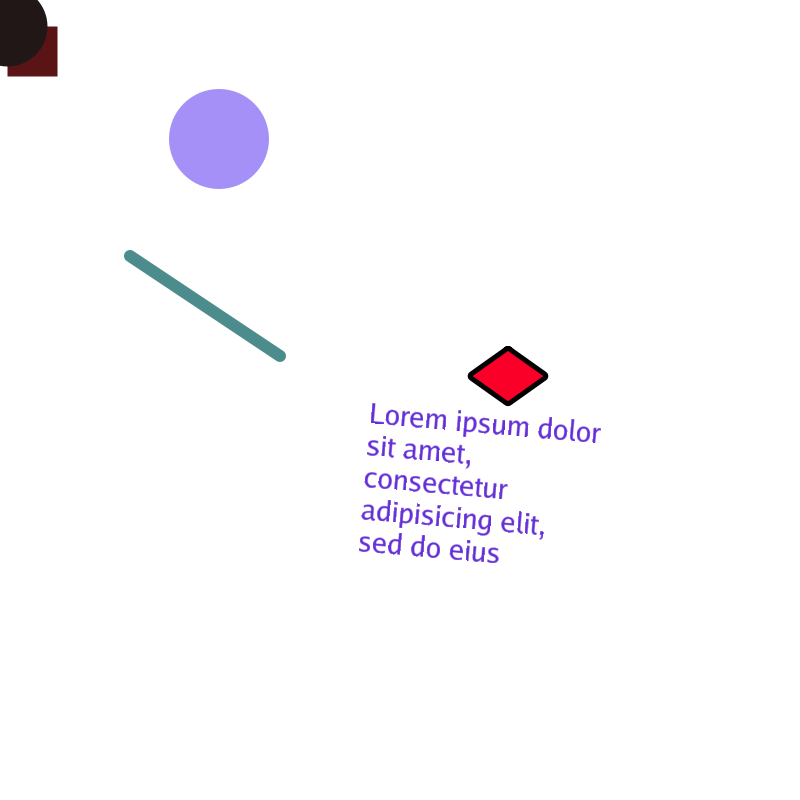
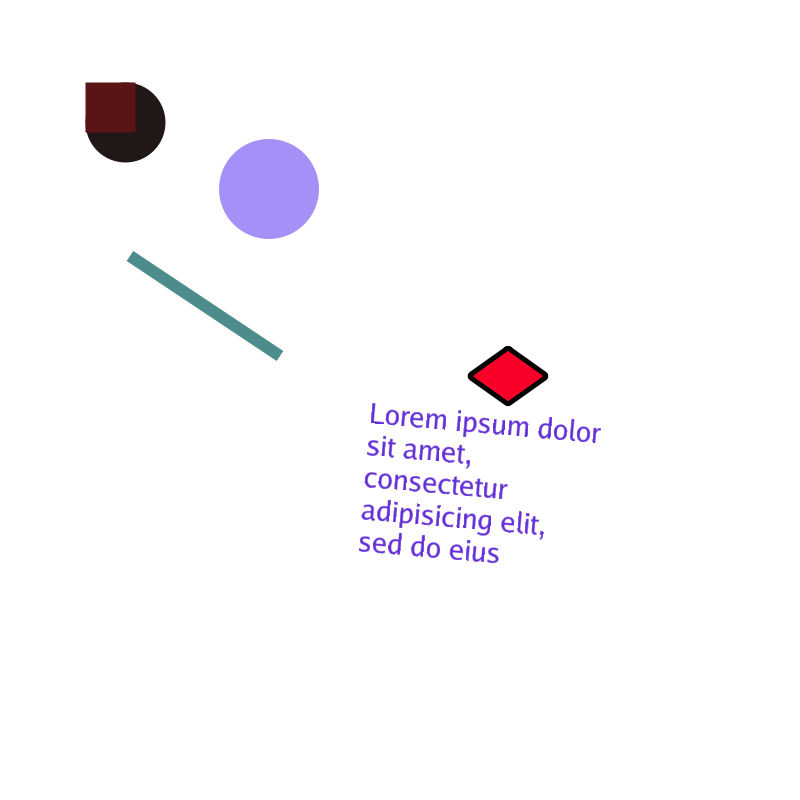
Fix Parsing
- Fixes circle parsing done by Fabricjs
- Fixes line cap parsing
- Fixes group layer parsing

Changed region(s): [[0.0938, 0.0938, 0.4062, 0.3125], [0.0, 0.0, 0.0938, 0.0938], [0.3438, 0.4375, 0.375, 0.4688]]

diff --git a/src/fabric/fabricShape.go b/src/fabric/fabricShape.go
@@ -13,26 +13,27 @@ import (
 )
 
 type fabricShape struct {
-	ShapeType   string        `json:"type"`
-	Left        float64       `json:"left"`
-	Top         float64       `json:"top"`
-	Width       float64       `json:"width"`
-	Height      float64       `json:"height"`
-	Fill        string        `json:"fill"`
-	Stroke      string        `json:"stroke"`
-	StrokeWidth float64       `json:"strokeWidth"`
-	Angle       float64       `json:"angle"`
-	ScaleX      float64       `json:"scaleX"`
-	ScaleY      float64       `json:"scaleY"`
-	Radius      float64       `json:"radius"`
-	Text        string        `json:"text"`
-	FontSize    float64       `json:"fontSize"`
-	LineHeight  float64       `json:"lineHeight"`
-	X1          float64       `json:"x1"`
-	X2          float64       `json:"x2"`
-	Y1          float64       `json:"y1"`
-	Y2          float64       `json:"y2"`
-	Objects     []fabricShape `json:"objects"`
+	ShapeType     string        `json:"type"`
+	Left          float64       `json:"left"`
+	Top           float64       `json:"top"`
+	Width         float64       `json:"width"`
+	Height        float64       `json:"height"`
+	Fill          string        `json:"fill"`
+	Stroke        string        `json:"stroke"`
+	StrokeWidth   float64       `json:"strokeWidth"`
+	Angle         float64       `json:"angle"`
+	ScaleX        float64       `json:"scaleX"`
+	ScaleY        float64       `json:"scaleY"`
+	Radius        float64       `json:"radius"`
+	Text          string        `json:"text"`
+	FontSize      float64       `json:"fontSize"`
+	LineHeight    float64       `json:"lineHeight"`
+	X1            float64       `json:"x1"`
+	X2            float64       `json:"x2"`
+	Y1            float64       `json:"y1"`
+	Y2            float64       `json:"y2"`
+	StrokeLineCap string        `json:"strokeLineCap"`
+	Objects       []fabricShape `json:"objects"`
 }
 
 const (
@@ -49,14 +50,14 @@ func (s *fabricShape) drawShapeType(ctx *gg.Context) {
 		ctx.Push()
 		ctx.Translate(s.Left, s.Top)
 		ctx.RotateAbout(s.Angle, s.Left, s.Top)
-		for _, o := range s.Objects {
-			o.Parse(ctx)
+		for i := len(s.Objects) - 1; i >= 0; i-- {
+			s.Objects[i].Parse(ctx)
 		}
 		ctx.Pop()
 		break
 
 	case circle:
-		ctx.DrawCircle(s.Left, s.Top, s.Radius)
+		ctx.DrawCircle(s.Left+s.Radius, s.Top+s.Radius, s.Radius)
 		break
 
 	case rectangle:
@@ -65,6 +66,7 @@ func (s *fabricShape) drawShapeType(ctx *gg.Context) {
 
 	case line:
 		ctx.Translate(s.Left, s.Top)
+		setLineCap(ctx, *s)
 		ctx.DrawLine(s.X1, s.Y1, s.X2, s.Y2)
 		break
 
@@ -78,6 +80,14 @@ func (s *fabricShape) drawShapeType(ctx *gg.Context) {
 		ctx.SetFontFace(fnt)
 		ctx.SetHexColor(s.Fill)
 		ctx.DrawStringWrapped(s.Text, s.Left, s.Top, 0, 0, s.Width, s.LineHeight, gg.AlignLeft)
+		break
+	}
+}
+
+func setLineCap(ctx *gg.Context, shape fabricShape) {
+	switch strings.ToLower(shape.StrokeLineCap) {
+	case "butt":
+		ctx.SetLineCapButt()
 		break
 	}
 }
